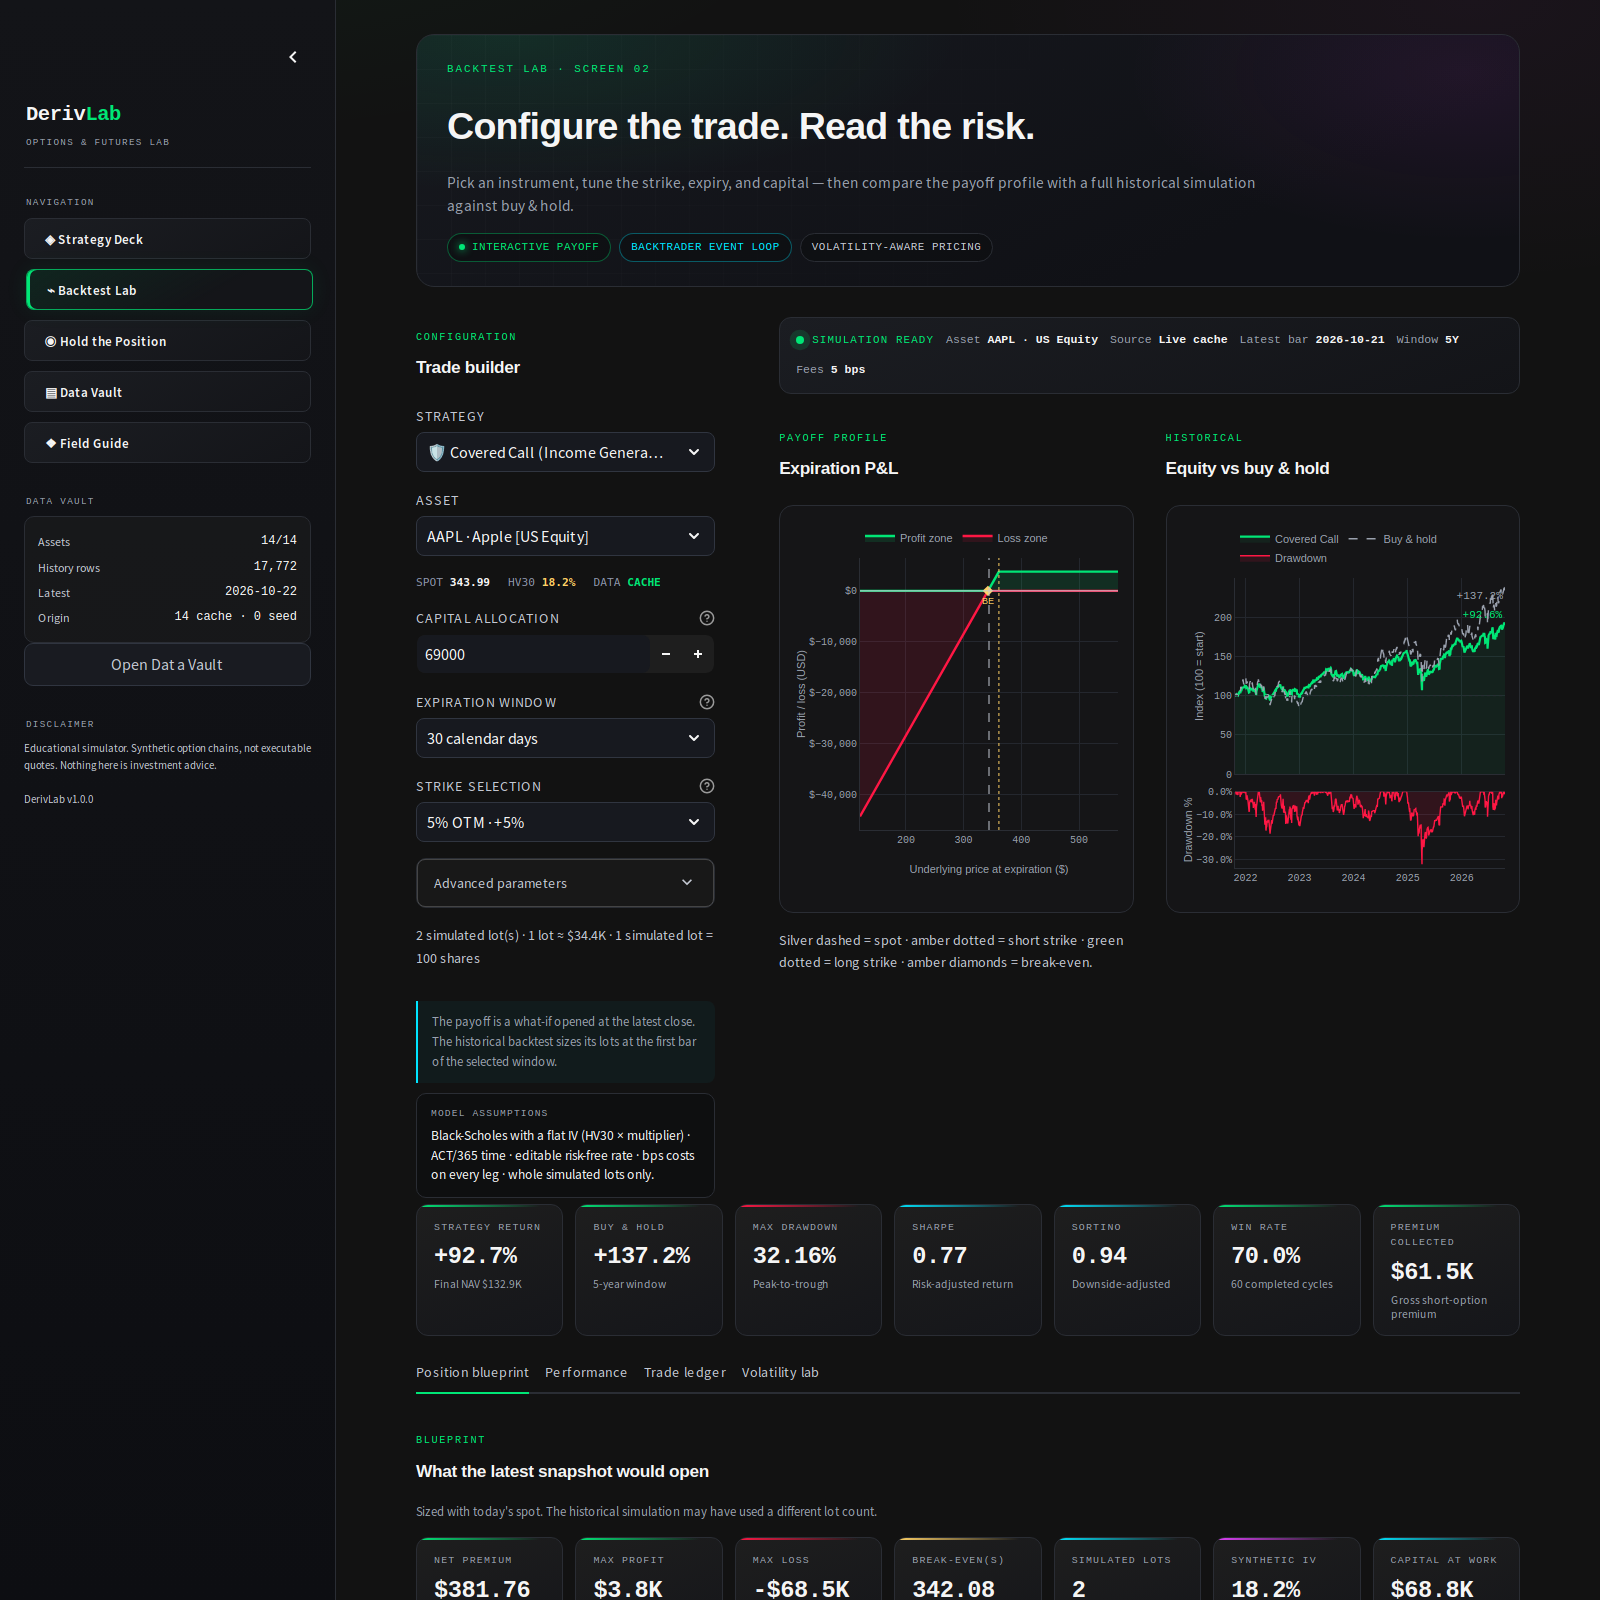
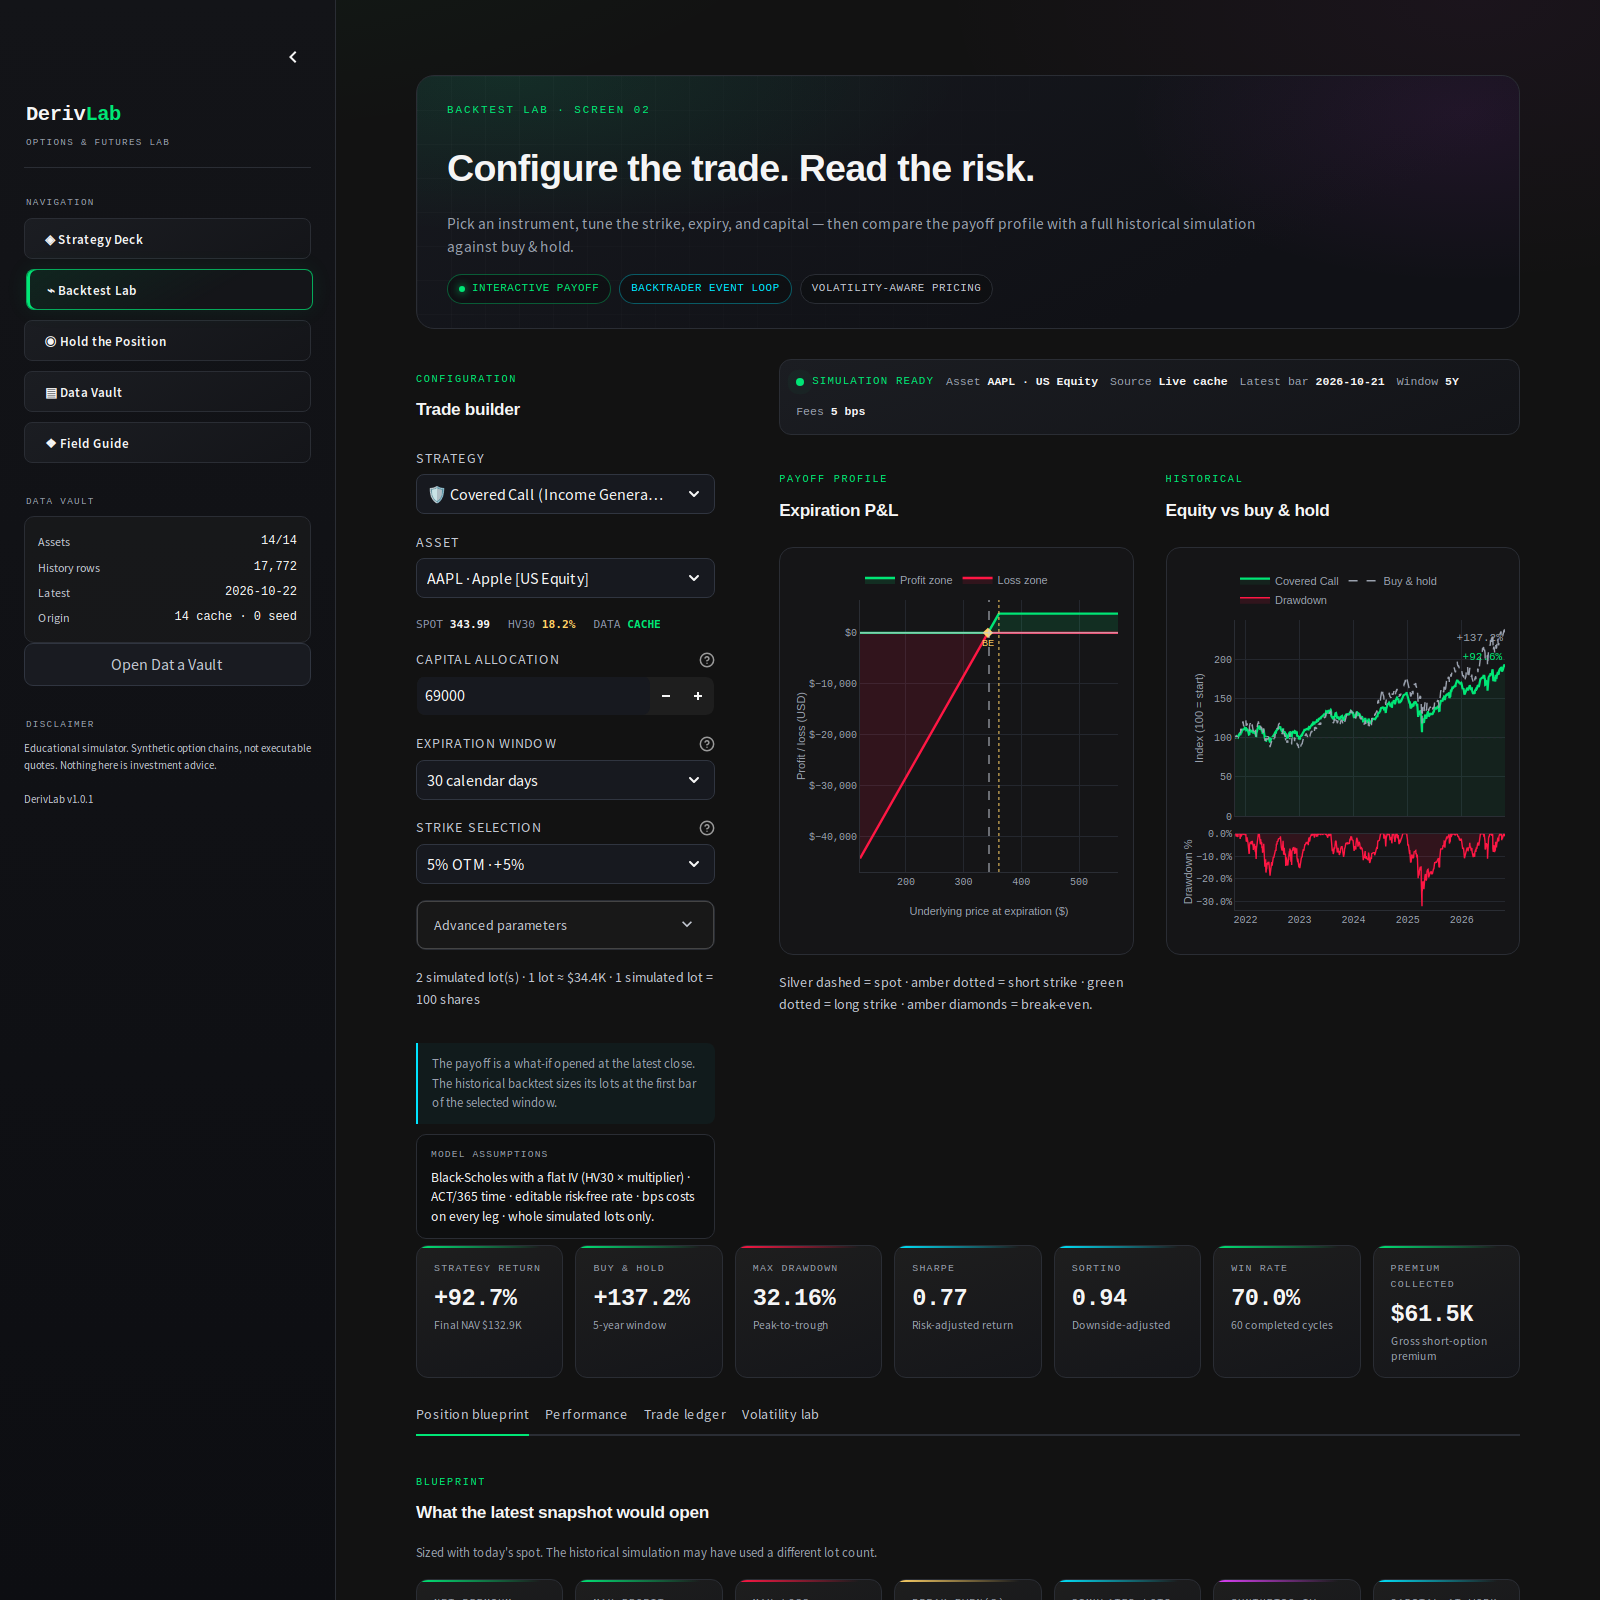
fix: prevent Hold the Position removeChild frontend error
- use stable Plotly keys and a constant one-second game fragment timer
- remove full-app reruns from automatic alert/finish transitions
- keep the Events trace present so the figure structure is stable
- opt out of browser auto-translation that mutates the React DOM
- add regression guards, changelog, and refreshes screenshots (v1.0.1)

diff --git a/derivlab/ui.py b/derivlab/ui.py
@@ -996,16 +996,12 @@ def _game_events_expander(game: ScenarioGame) -> None:
         st.dataframe(display, hide_index=True, use_container_width=True)
 
 
-def _render_game_live(game: ScenarioGame) -> None:
-    theme.status_bar(_game_status_items(game), live=game.latest_status())
-    st.progress(
-        min(max(game.progress, 0.0), 1.0),
-        text=f"Tape {game.days_elapsed}/{game.days_total} · {game.current_date.date()} · "
-        f"{game.scenario_label}",
-    )
+def _render_game_alert_area(game: ScenarioGame, running: bool, playing: bool) -> None:
+    """Render the paused decision area without forcing a full-app rerun.
 
-    running = game.state == "running"
-    playing = bool(st.session_state.get("game_playing"))
+    All state changes are picked up by the always-on fragment timer (1 s), so
+    playback continues smoothly and the DOM tree is not torn down mid-update.
+    """
     if game.state == "alert" and game.active_alert is not None:
         alert = game.active_alert
         theme.risk_alert(
@@ -1038,7 +1034,6 @@ def _render_game_live(game: ScenarioGame) -> None:
         ):
             if game.roll():
                 st.session_state.game_playing = True
-                st.rerun()
             else:
                 st.error(game.last_action_message or "The roll could not be executed.")
         if decision[1].button(
@@ -1049,7 +1044,6 @@ def _render_game_live(game: ScenarioGame) -> None:
         ):
             game.hold()
             st.session_state.game_playing = True
-            st.rerun()
         if decision[2].button(
             "Liquidate / Close",
             key="decision_liquidate",
@@ -1058,7 +1052,6 @@ def _render_game_live(game: ScenarioGame) -> None:
         ):
             game.liquidate()
             st.session_state.game_playing = False
-            st.rerun()
         if not can_roll:
             st.caption(f"Roll unavailable: {roll_reason}")
     elif running:
@@ -1066,20 +1059,33 @@ def _render_game_live(game: ScenarioGame) -> None:
             st.caption("Playback is live: one simulated trading day per second.")
         else:
             st.caption("Playback paused. Press Play, Step, or Fast-forward to continue.")
-    _plot(charts.price_path_figure(game, height=470), key=f"game_chart_{game.index}")
+
+
+def _render_game_live(game: ScenarioGame) -> None:
+    theme.status_bar(_game_status_items(game), live=game.latest_status())
+    st.progress(
+        min(max(game.progress, 0.0), 1.0),
+        text=f"Tape {game.days_elapsed}/{game.days_total} · {game.current_date.date()} · "
+        f"{game.scenario_label}",
+    )
+
+    running = game.state == "running"
+    playing = bool(st.session_state.get("game_playing"))
+    _render_game_alert_area(game, running, playing)
+    # A stable key lets Plotly update the same React node every second instead of
+    # replacing the chart on each tick. This is what prevents the frontend
+    # "removeChild" DOM error during long auto-play sessions.
+    _plot(charts.price_path_figure(game, height=470), key="game_live_chart")
     theme.kpi_grid(_game_kpis(game))
 
     controls = st.columns([1, 1, 1.2, 1.2, 1])
     if controls[0].button("▶ Play", key="game_play", type="primary", disabled=(not running or playing), use_container_width=True):
         st.session_state.game_playing = True
-        st.rerun()
     if controls[1].button("Pause", key="game_pause", disabled=(not playing), use_container_width=True):
         st.session_state.game_playing = False
-        st.rerun()
     if controls[2].button("Step +1 day", key="game_step", disabled=not running, use_container_width=True):
         game.advance()
         st.session_state.game_playing = False
-        st.rerun()
     if controls[3].button(
         "Fast-forward → alert",
         key="game_fast",
@@ -1092,7 +1098,6 @@ def _render_game_live(game: ScenarioGame) -> None:
                 break
             game.advance()
         st.session_state.game_playing = False
-        st.rerun()
     if controls[4].button("New scenario", key="game_reset", use_container_width=True):
         st.session_state.game = None
         st.session_state.game_playing = False
@@ -1137,7 +1142,7 @@ def _render_game_results(game: ScenarioGame) -> None:
                 theme.kpi_card("Tape", f"{game.days_elapsed}/{game.days_total}", "Trading days", "muted"),
             ]
         )
-        _plot(charts.price_path_figure(game, height=460), key=f"result_chart_{game.days_elapsed}")
+        _plot(charts.price_path_figure(game, height=460), key="game_result_chart")
         _game_events_expander(game)
     with right:
         if score is not None:
@@ -1188,29 +1193,29 @@ def render_game() -> None:
         st.session_state.game = None
         st.rerun()
         return
-    if game.state == "finished":
-        st.caption(f"{game.asset.symbol} · {game.strategy_name} · {game.scenario_label}")
-        _render_game_results(game)
-        return
 
     st.caption(
         f"{game.asset.symbol} · {game.strategy_name} · {game.scenario_label} · "
         f"{game.days_total} trading days"
     )
 
-    run_every = 1.0 if st.session_state.get("game_playing") else None
-
-    @st.fragment(run_every=run_every)
-    def _live_fragment() -> None:
-        live_game: ScenarioGame = st.session_state.game
+    # Keep the fragment mounted for the whole game with a constant timer. The
+    # timer advances only while the user is playing; alerts, decisions, debriefs,
+    # and play/pause changes no longer call st.rerun() inside the fragment.
+    @st.fragment(run_every=1.0)
+    def _game_fragment() -> None:
+        live_game = st.session_state.get("game")
+        if not isinstance(live_game, ScenarioGame):
+            st.rerun()
+            return
         if live_game.state == "running" and st.session_state.get("game_playing"):
             live_game.advance()
-            if live_game.state != "running":
-                st.session_state.game_playing = False
-                st.rerun()
-        _render_game_live(live_game)
+        if live_game.state == "finished":
+            _render_game_results(live_game)
+        else:
+            _render_game_live(live_game)
 
-    _live_fragment()
+    _game_fragment()
 
 
 # ---------------------------------------------------------------------------
@@ -1530,6 +1535,7 @@ def main() -> None:
         initial_sidebar_state="expanded",
     )
     theme.inject_theme()
+    theme.disable_browser_translation()
     _init_state()
     _render_sidebar()
     page = st.session_state.get("page", "strategy")

diff --git a/derivlab/theme.py b/derivlab/theme.py
@@ -7,6 +7,7 @@ import textwrap
 from collections.abc import Iterable
 
 import streamlit as st
+import streamlit.components.v1 as components
 
 from .config import COLORS, FONT_MONO, FONT_SANS
 from .metrics import ScoreCard
@@ -800,6 +801,45 @@ def html_block(markup: str) -> None:
     """
     cleaned = " ".join(textwrap.dedent(str(markup)).split())
     st.markdown(cleaned, unsafe_allow_html=True)
+
+
+def disable_browser_translation() -> None:
+    """Ask browsers not to machine-translate the live terminal DOM.
+
+    Chrome/Edge/Google Translate replace text nodes in place. React (and thus
+    Streamlit) can then fail with "Failed to execute 'removeChild' on 'Node'"
+    while it patches a rapidly updating live view. The marker below is the
+    standard Google Translate opt-out and also sets the document language.
+    It is safe in iframes that block parent access and does not affect manual
+    translation of the README or exported content.
+    """
+    components.html(
+        """
+        <script>
+        (function () {
+          try {
+            const doc = window.parent.document;
+            if (!doc) return;
+            doc.documentElement.setAttribute("translate", "no");
+            doc.documentElement.setAttribute("lang", "en");
+            doc.documentElement.classList.add("notranslate");
+            if (doc.body) doc.body.classList.add("notranslate");
+            if (!doc.querySelector('meta[name="google"][content="notranslate"]')) {
+              const meta = doc.createElement("meta");
+              meta.setAttribute("name", "google");
+              meta.setAttribute("content", "notranslate");
+              doc.head.appendChild(meta);
+            }
+          } catch (error) {
+            /* Cross-origin iframe: nothing else to do. */
+          }
+        })();
+        </script>
+        """,
+        height=0,
+        width=0,
+        scrolling=False,
+    )
 
 
 def inject_theme() -> None:

diff --git a/derivlab/charts.py b/derivlab/charts.py
@@ -427,26 +427,33 @@ def price_path_figure(game: ScenarioGame, height: int = 500) -> go.Figure:
 
     events = game.event_frame()
     alert_events = events[events["kind"].isin(["alert", "assignment", "finish"])] if not events.empty else events
+    alert_x: list = []
+    alert_y: list[float] = []
+    alert_text: list[str] = []
     if not alert_events.empty:
-        alert_y = []
-        for event_date in alert_events["date"]:
+        for _, event in alert_events.iterrows():
+            event_date = event["date"]
             try:
                 alert_y.append(float(game.frame.loc[event_date, "Close"]))
             except KeyError:
                 alert_y.append(float(game.frame["Close"].iloc[-1]))
-        fig.add_trace(
-            go.Scatter(
-                x=alert_events["date"],
-                y=alert_y,
-                mode="markers",
-                name="Events",
-                marker=dict(color=COLORS["pink"], size=8, symbol="diamond"),
-                text=alert_events["title"],
-                hovertemplate="%{text}<br>%{x|%Y-%m-%d}<extra></extra>",
-            ),
-            row=1,
-            col=1,
-        )
+            alert_x.append(event_date)
+            alert_text.append(str(event["title"]))
+    # Always emit the trace, even when empty, so the Plotly figure has a stable
+    # number of traces across ticks and alerts.
+    fig.add_trace(
+        go.Scatter(
+            x=alert_x,
+            y=alert_y,
+            mode="markers",
+            name="Events",
+            marker=dict(color=COLORS["pink"], size=8, symbol="diamond"),
+            text=alert_text,
+            hovertemplate="%{text}<br>%{x|%Y-%m-%d}<extra></extra>",
+        ),
+        row=1,
+        col=1,
+    )
 
     fig.add_trace(
         go.Scatter(

diff --git a/tests/test_ui_apptest.py b/tests/test_ui_apptest.py
@@ -72,16 +72,22 @@ def test_game_flow_and_debrief():
     assert any(button.key == "game_fast" for button in at.button)
 
     at.button(key="game_fast").click().run()
+    # Fragment state changes are applied on the next fragment run; AppTest has
+    # no wall-clock timer, so trigger one explicitly.
+    at.run()
     _clean(at)
     if any(button.key == "decision_hold" for button in at.button):
         at.button(key="decision_hold").click().run()
+        at.run()
         _clean(at)
-        at.button(key="game_fast").click().run()
-        _clean(at)
+        if any(button.key == "game_fast" for button in at.button):
+            at.button(key="game_fast").click().run()
+            at.run()
+            _clean(at)
     if any(button.key == "decision_liquidate" for button in at.button):
         at.button(key="decision_liquidate").click().run()
+        at.run()
         _clean(at)
-    # A full rerun clears any stale fragment elements after the game ends.
     at.run()
     _clean(at)
     body = "\n".join(item.value for item in at.markdown)

diff --git a/tests/test_repo_config.py b/tests/test_repo_config.py
@@ -111,3 +111,14 @@ def test_screenshots_exist():
 @pytest.mark.parametrize("name", ["Makefile", "CONTRIBUTING.md", "LICENSE", ".env.example", "requirements-dev.txt"])
 def test_repository_files_exist(name):
     assert (ROOT / name).exists()
+
+
+def test_live_game_uses_stable_frontend_identities():
+    ui = (ROOT / "derivlab" / "ui.py").read_text(encoding="utf-8")
+    theme = (ROOT / "derivlab" / "theme.py").read_text(encoding="utf-8")
+    assert 'key="game_live_chart"' in ui
+    assert 'key="game_result_chart"' in ui
+    assert "@st.fragment(run_every=1.0)" in ui
+    assert "disable_browser_translation" in ui
+    assert "notranslate" in theme
+    assert "translate" in theme

diff --git a/derivlab/config.py b/derivlab/config.py
@@ -16,7 +16,7 @@ from pathlib import Path
 # ---------------------------------------------------------------------------
 
 APP_NAME = "DerivLab"
-APP_VERSION = "1.0.0"
+APP_VERSION = "1.0.1"
 APP_TITLE = "Options & Futures Strategy Emulator"
 APP_SUBTITLE = (
     "Learn, configure, and backtest advanced trading strategies using "

diff --git a/CHANGELOG.md b/CHANGELOG.md
@@ -1,0 +1,32 @@
+# Changelog
+
+All notable changes to DerivLab are documented here.
+
+## [1.0.1] - 2026-10-22
+
+### Fixed
+
+- **Hold the Position frontend stability.** Eliminated the intermittent browser
+  `NotFoundError: Failed to execute 'removeChild' on 'Node'` error by:
+  - using stable Plotly component keys instead of recreating the chart every tick,
+  - keeping the game fragment mounted with a constant one-second timer,
+  - removing full-app `st.rerun()` calls from automatic alert and finish transitions,
+  - keeping a constant number of Plotly traces while the tape advances.
+- **Browser auto-translation guard.** The terminal now sets Google/Edge
+  `notranslate` markers and `translate="no"` on the document so machine
+  translation cannot mutate the React DOM during live updates.
+
+### Changed
+
+- Game decisions and playback controls update on the next one-second fragment
+  tick instead of tearing down and rebuilding the page.
+- README troubleshooting now documents the frontend/translation failure mode.
+
+## [1.0.0] - 2026-10-22
+
+### Added
+
+- Initial DerivLab release: five strategies, 14 instruments, synthetic
+  Black-Scholes option chains, Backtrader event loop, Streamlit terminal,
+  Hold-the-Position game, Data Vault, Docker stack, Dev Containers, CI, tests,
+  bundled five-year seed, and documentation.

diff --git a/README.md b/README.md
@@ -492,8 +492,10 @@ DerivLab/
 | Refresh fails with 429 | Yahoo is rate-limiting. Keep the existing cache; retry later or use the seed |
 | “Below one lot” warning | Increase capital or choose a cheaper instrument; the warning includes a one-click fix |
 | Dev Container permission error | Rebuild the container; post-create re-creates `data/cache` with the developer UID |
+| Browser shows `removeChild` / `NotFoundError` | This is a browser auto-translation / DOM mutation issue in live React views. DerivLab 1.0.1 sets `notranslate` markers and stable chart identities; do a hard refresh and disable auto-translation for the tab |
 | Want to reset the demo data | `docker compose down -v` (removes the cache volume) then `up --build` |
 | Need LAN access | `DERIVLAB_BIND_ADDR=0.0.0.0 docker compose up` and use the host IP |
+| Translation is desired | Translate the README or take screenshots; the live terminal opts out of automatic machine translation to protect its React DOM |
 
 ---
 
